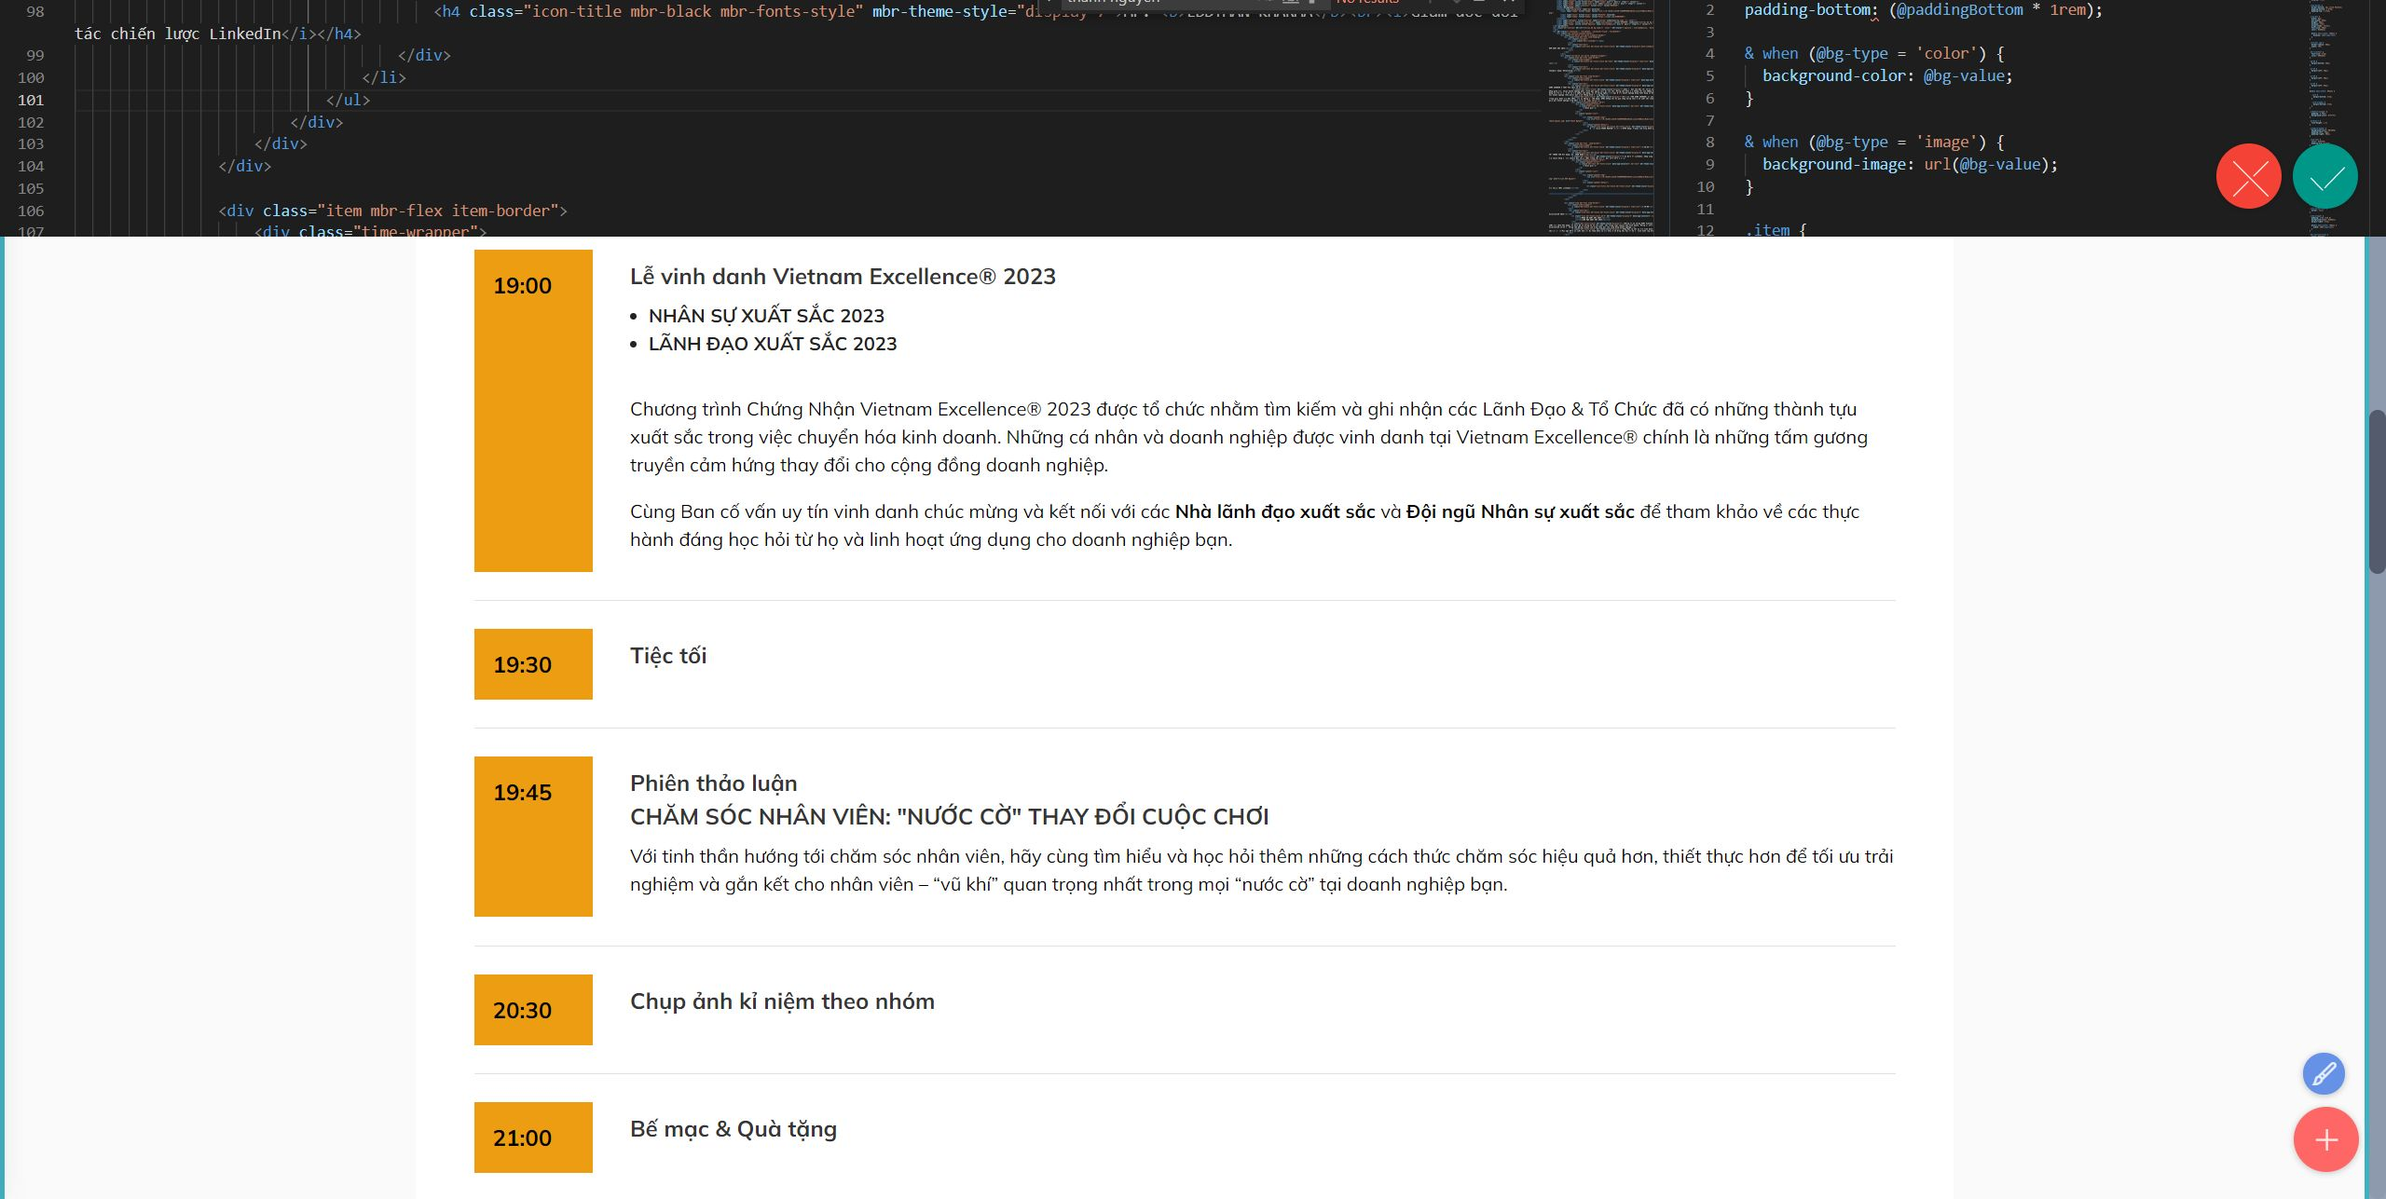
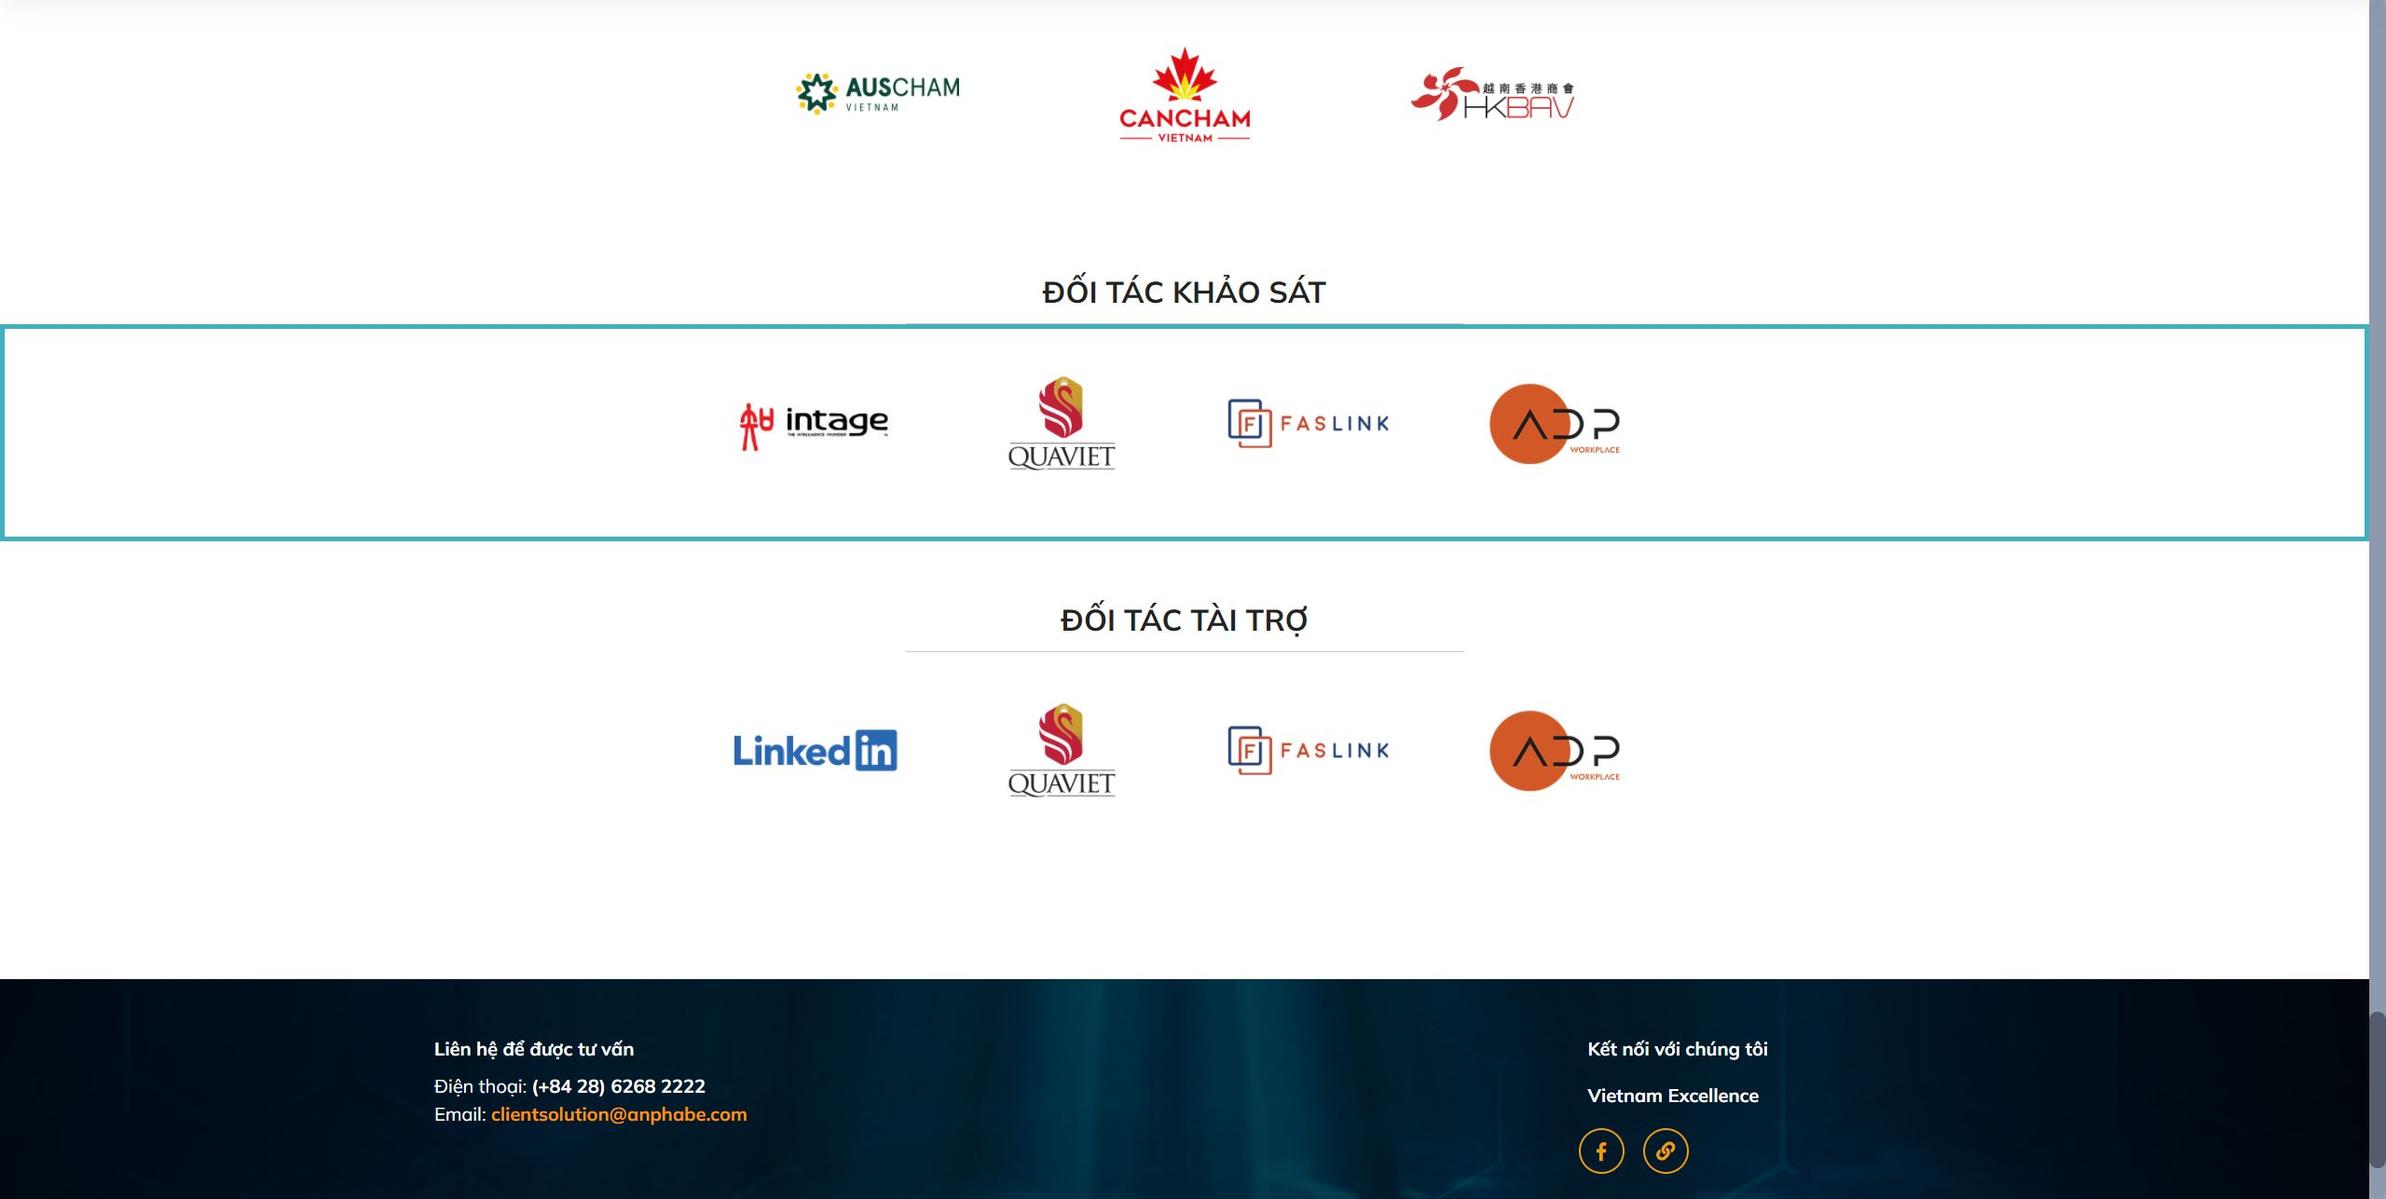
update

diff --git a/vietnamexcellence/2023/index.html b/vietnamexcellence/2023/index.html
@@ -476,8 +476,8 @@ height="0" width="0" style="display:none;visibility:hidden"></iframe></noscript>
     <div class="container">        
         <div class="row mbr-gallery">
             <div class="col-12 col-md-4 col-lg-4 item gallery-image">
-                <div class="item-wrapper" data-toggle="modal" data-bs-toggle="modal" data-target="#tJjRFLmG6x-modal" data-bs-target="#tJjRFLmG6x-modal">
-                    <img class="w-100 image-speaker" src="assets/images/tanthanh-2022.jpg" alt="Ông VÕ TÂN THÀNH" data-slide-to="0" data-bs-slide-to="0" data-target="#lb-tJjRFLmG6x" data-bs-target="#lb-tJjRFLmG6x">
+                <div class="item-wrapper" data-toggle="modal" data-bs-toggle="modal" data-target="#tJjW0Fo9Q9-modal" data-bs-target="#tJjW0Fo9Q9-modal">
+                    <img class="w-100 image-speaker" src="assets/images/tanthanh-2022.jpg" alt="Ông VÕ TÂN THÀNH" data-slide-to="0" data-bs-slide-to="0" data-target="#lb-tJjW0Fo9Q9" data-bs-target="#lb-tJjW0Fo9Q9">
                     <div class="icon-wrapper">
                         <span class="mobi-mbri mobi-mbri-search mbr-iconfont mbr-iconfont-btn"></span>
                     </div>
@@ -488,8 +488,8 @@ height="0" width="0" style="display:none;visibility:hidden"></iframe></noscript>
                 </div>
             </div>
             <div class="col-12 col-md-4 col-lg-4 item gallery-image">
-                <div class="item-wrapper" data-toggle="modal" data-bs-toggle="modal" data-target="#tJjRFLmG6x-modal" data-bs-target="#tJjRFLmG6x-modal">
-                    <img class="w-100 image-speaker" src="assets/images/khuong-2022.jpg" alt="GS.TS. NGUYỄN ĐỨC KHƯƠNG" data-slide-to="1" data-bs-slide-to="1" data-target="#lb-tJjRFLmG6x" data-bs-target="#lb-tJjRFLmG6x">
+                <div class="item-wrapper" data-toggle="modal" data-bs-toggle="modal" data-target="#tJjW0Fo9Q9-modal" data-bs-target="#tJjW0Fo9Q9-modal">
+                    <img class="w-100 image-speaker" src="assets/images/khuong-2022.jpg" alt="GS.TS. NGUYỄN ĐỨC KHƯƠNG" data-slide-to="1" data-bs-slide-to="1" data-target="#lb-tJjW0Fo9Q9" data-bs-target="#lb-tJjW0Fo9Q9">
                     <div class="icon-wrapper">
                         <span class="mobi-mbri mobi-mbri-search mbr-iconfont mbr-iconfont-btn"></span>
                     </div>
@@ -500,8 +500,8 @@ height="0" width="0" style="display:none;visibility:hidden"></iframe></noscript>
                 </div>
             </div>            
             <div class="col-12 col-md-4 col-lg-4 item gallery-image">
-                <div class="item-wrapper" data-toggle="modal" data-bs-toggle="modal" data-target="#tJjRFLmG6x-modal" data-bs-target="#tJjRFLmG6x-modal">
-                    <img class="w-100" src="assets/images/joshua-2022.jpg" alt="Ông JOSHUA JAMES" data-slide-to="2" data-bs-slide-to="2" data-target="#lb-tJjRFLmG6x" data-bs-target="#lb-tJjRFLmG6x">
+                <div class="item-wrapper" data-toggle="modal" data-bs-toggle="modal" data-target="#tJjW0Fo9Q9-modal" data-bs-target="#tJjW0Fo9Q9-modal">
+                    <img class="w-100" src="assets/images/joshua-2022.jpg" alt="Ông JOSHUA JAMES" data-slide-to="2" data-bs-slide-to="2" data-target="#lb-tJjW0Fo9Q9" data-bs-target="#lb-tJjW0Fo9Q9">
                     <div class="icon-wrapper">
                         <span class="mobi-mbri mobi-mbri-search mbr-iconfont mbr-iconfont-btn"></span>
                     </div>
@@ -512,8 +512,8 @@ height="0" width="0" style="display:none;visibility:hidden"></iframe></noscript>
                 </div>
             </div>
             <div class="col-12 col-md-4 col-lg-4 item gallery-image">
-                <div class="item-wrapper" data-toggle="modal" data-bs-toggle="modal" data-target="#tJjRFLmG6x-modal" data-bs-target="#tJjRFLmG6x-modal">
-                    <img class="w-100 image-speaker" src="assets/images/kimthuy-2022.jpg" alt="Bà BÙI KIM THÙY" data-slide-to="3" data-bs-slide-to="3" data-target="#lb-tJjRFLmG6x" data-bs-target="#lb-tJjRFLmG6x">
+                <div class="item-wrapper" data-toggle="modal" data-bs-toggle="modal" data-target="#tJjW0Fo9Q9-modal" data-bs-target="#tJjW0Fo9Q9-modal">
+                    <img class="w-100 image-speaker" src="assets/images/kimthuy-2022.jpg" alt="Bà BÙI KIM THÙY" data-slide-to="3" data-bs-slide-to="3" data-target="#lb-tJjW0Fo9Q9" data-bs-target="#lb-tJjW0Fo9Q9">
                     <div class="icon-wrapper">
                         <span class="mobi-mbri mobi-mbri-search mbr-iconfont mbr-iconfont-btn"></span>
                     </div>
@@ -524,8 +524,8 @@ height="0" width="0" style="display:none;visibility:hidden"></iframe></noscript>
                 </div>
             </div>
             <div class="col-12 col-md-4 col-lg-4 item gallery-image">
-                <div class="item-wrapper" data-toggle="modal" data-bs-toggle="modal" data-target="#tJjRFLmG6x-modal" data-bs-target="#tJjRFLmG6x-modal">
-                    <img class="w-100" src="assets/images/winnie-2022.jpg" alt="Bà WINNIE LAM" data-slide-to="4" data-bs-slide-to="4" data-target="#lb-tJjRFLmG6x" data-bs-target="#lb-tJjRFLmG6x">
+                <div class="item-wrapper" data-toggle="modal" data-bs-toggle="modal" data-target="#tJjW0Fo9Q9-modal" data-bs-target="#tJjW0Fo9Q9-modal">
+                    <img class="w-100" src="assets/images/winnie-2022.jpg" alt="Bà WINNIE LAM" data-slide-to="4" data-bs-slide-to="4" data-target="#lb-tJjW0Fo9Q9" data-bs-target="#lb-tJjW0Fo9Q9">
                     <div class="icon-wrapper">
                         <span class="mobi-mbri mobi-mbri-search mbr-iconfont mbr-iconfont-btn"></span>
                     </div>
@@ -536,8 +536,8 @@ height="0" width="0" style="display:none;visibility:hidden"></iframe></noscript>
                 </div>
             </div>
             <div class="col-12 col-md-4 col-lg-4 item gallery-image">
-                <div class="item-wrapper" data-toggle="modal" data-bs-toggle="modal" data-target="#tJjRFLmG6x-modal" data-bs-target="#tJjRFLmG6x-modal">
-                    <img class="w-100 image-speaker" src="assets/images/simon-2022.jpg" alt="Ông SIMON FRASER" data-slide-to="5" data-bs-slide-to="5" data-target="#lb-tJjRFLmG6x" data-bs-target="#lb-tJjRFLmG6x">
+                <div class="item-wrapper" data-toggle="modal" data-bs-toggle="modal" data-target="#tJjW0Fo9Q9-modal" data-bs-target="#tJjW0Fo9Q9-modal">
+                    <img class="w-100 image-speaker" src="assets/images/simon-2022.jpg" alt="Ông SIMON FRASER" data-slide-to="5" data-bs-slide-to="5" data-target="#lb-tJjW0Fo9Q9" data-bs-target="#lb-tJjW0Fo9Q9">
                     <div class="icon-wrapper">
                         <span class="mobi-mbri mobi-mbri-search mbr-iconfont mbr-iconfont-btn"></span>
                     </div>
@@ -549,11 +549,11 @@ height="0" width="0" style="display:none;visibility:hidden"></iframe></noscript>
             </div>
         </div>
 
-        <div class="modal mbr-slider" tabindex="-1" role="dialog" aria-hidden="true" id="tJjRFLmG6x-modal">
+        <div class="modal mbr-slider" tabindex="-1" role="dialog" aria-hidden="true" id="tJjW0Fo9Q9-modal">
             <div class="modal-dialog" role="document">
                 <div class="modal-content">
                     <div class="modal-body">
-                        <div class="carousel slide" id="lb-tJjRFLmG6x" data-interval="5000" data-bs-interval="5000">
+                        <div class="carousel slide" id="lb-tJjW0Fo9Q9" data-interval="5000" data-bs-interval="5000">
                             <div class="carousel-inner">
                                 <div class="carousel-item active">
                                     <div class="row">
@@ -682,21 +682,21 @@ height="0" width="0" style="display:none;visibility:hidden"></iframe></noscript>
                             </div>
 
                             <ol class="carousel-indicators">
-                                <li data-slide-to="0" data-bs-slide-to="0" class="active" data-target="#lb-tJjRFLmG6x" data-bs-target="#lb-tJjRFLmG6x"></li>
-                                <li data-slide-to="1" data-bs-slide-to="1" data-target="#lb-tJjRFLmG6x" data-bs-target="#lb-tJjRFLmG6x"></li>
-                                <li data-slide-to="2" data-bs-slide-to="2" data-target="#lb-tJjRFLmG6x" data-bs-target="#lb-tJjRFLmG6x"></li>
-                                <li data-slide-to="3" data-bs-slide-to="3" data-target="#lb-tJjRFLmG6x" data-bs-target="#lb-tJjRFLmG6x"></li>
-                                <li data-slide-to="4" data-bs-slide-to="4" data-target="#lb-tJjRFLmG6x" data-bs-target="#lb-tJjRFLmG6x"></li>
-                                <li data-slide-to="5" data-bs-slide-to="5" data-target="#lb-tJjRFLmG6x" data-bs-target="#lb-tJjRFLmG6x"></li>
+                                <li data-slide-to="0" data-bs-slide-to="0" class="active" data-target="#lb-tJjW0Fo9Q9" data-bs-target="#lb-tJjW0Fo9Q9"></li>
+                                <li data-slide-to="1" data-bs-slide-to="1" data-target="#lb-tJjW0Fo9Q9" data-bs-target="#lb-tJjW0Fo9Q9"></li>
+                                <li data-slide-to="2" data-bs-slide-to="2" data-target="#lb-tJjW0Fo9Q9" data-bs-target="#lb-tJjW0Fo9Q9"></li>
+                                <li data-slide-to="3" data-bs-slide-to="3" data-target="#lb-tJjW0Fo9Q9" data-bs-target="#lb-tJjW0Fo9Q9"></li>
+                                <li data-slide-to="4" data-bs-slide-to="4" data-target="#lb-tJjW0Fo9Q9" data-bs-target="#lb-tJjW0Fo9Q9"></li>
+                                <li data-slide-to="5" data-bs-slide-to="5" data-target="#lb-tJjW0Fo9Q9" data-bs-target="#lb-tJjW0Fo9Q9"></li>
                                 
                             </ol>
                             <a role="button" href="" class="close" data-dismiss="modal" data-bs-dismiss="modal" aria-label="Close">
                             </a>
-                            <a class="carousel-control-prev carousel-control" role="button" data-slide="prev" data-bs-slide="prev" href="#lb-tJjRFLmG6x">
+                            <a class="carousel-control-prev carousel-control" role="button" data-slide="prev" data-bs-slide="prev" href="#lb-tJjW0Fo9Q9">
                                 <span class="mobi-mbri mobi-mbri-arrow-prev" aria-hidden="true"></span>
                                 <span class="sr-only visually-hidden">Previous</span>
                             </a>
-                            <a class="carousel-control-next carousel-control" role="button" data-slide="next" data-bs-slide="next" href="#lb-tJjRFLmG6x">
+                            <a class="carousel-control-next carousel-control" role="button" data-slide="next" data-bs-slide="next" href="#lb-tJjW0Fo9Q9">
                                 <span class="mobi-mbri mobi-mbri-arrow-next" aria-hidden="true"></span>
                                 <span class="sr-only visually-hidden">Next</span>
                             </a>
@@ -792,6 +792,39 @@ height="0" width="0" style="display:none;visibility:hidden"></iframe></noscript>
                 <img src="assets/images/hkbav-logo.jpg" alt="">
             </div>
            
+        </div>
+    </div>
+</section>
+
+<section data-bs-version="5.1" class="content4 cid-tJjVJPeokI" id="content4-6r">
+    
+    
+    <div class="container">
+        <div class="row justify-content-center">
+            <div class="title col-md-12 col-lg-9">
+                <h3 class="mbr-section-title mbr-fonts-style align-center display-5"><strong>ĐỐI TÁC KHẢO SÁT</strong></h3>
+                <hr>
+                
+                
+            </div>
+        </div>
+    </div>
+</section>
+
+<section data-bs-version="5.1" class="clients1 cid-tJjVOnoVVS" id="clients1-6s">
+    
+    <div class="images-container container">
+        <div class="mbr-section-head">
+            
+            
+            
+        </div>
+       
+        <div class="row justify-content-center align-items-center">        
+            
+            <div class="col-6 col-md-3  card">
+                <img src="assets/images/intage-200x152.jpg" alt="Intage">
+            </div> 
         </div>
     </div>
 </section>

diff --git a/vietnamexcellence/2023/assets/theme/js/script.js b/vietnamexcellence/2023/assets/theme/js/script.js
@@ -58,4 +58,4 @@ f)});d.forEach(function(a){a.removeEventListener("click",f)});u&&h(a).carousel({
 h(this).styler()}),h(a).find("input[type=number]").each(function(){h(this).styler&&(h(this).styler(),h(this).parent().parent().removeClass("form-control"))}),h(a).find("input[type=date]").each(function(){h(this).datetimepicker&&h(this).datetimepicker({format:"Y-m-d",timepicker:!1})}),h(a).find("input[type=time]").each(function(){h(this).datetimepicker&&h(this).datetimepicker({format:"H:i",datepicker:!1})}))})}document.querySelectorAll('input[type="range"]').forEach(function(a){a.addEventListener("change",
 function(a){a.target.parents(".form-group").forEach(function(b){b.querySelector(".value").innerHTML=a.target.value})})});if(p)h(document).on("add.cards changeParameter.cards",function(a,b){"undefined"!==typeof CircularProgressBar&&new CircularProgressBar("pie_progress");b?H(a.target,b):a.target.querySelectorAll(".pie_progress").length&&a.target.querySelectorAll(".pie_progress").forEach(function(a){C(a)})});else document.querySelectorAll(".pie_progress").length&&("undefined"!==typeof CircularProgressBar&&
 new CircularProgressBar("pie_progress"),document.querySelectorAll(".pie_progress").forEach(function(a){C(a)}));if(p&&u)h(document).on("add.cards",function(a){h(a.target).hasClass("testimonials-slider")&&x(a.target)}).on("changeParameter.cards",function(a,b,d){"testimonialsSlides"===b&&0==h(a.target).find(".carousel-item.active").length&&A(a.target)});else"undefined"===typeof window.initTestimonialsPlugin&&(window.initTestimonialsPlugin=!0,document.querySelectorAll(".testimonials-slider").forEach(function(a){x(a)}));
-l(function(){p||Array.from(document.body.children).filter(function(a){return!a.matches("style, script")}).forEach(function(a){if(window.Event&&"function"===typeof window.Event)var b=new Event("add.cards");else b=document.createEvent("CustomEvent"),b.initEvent("add.cards",!0,!0);a.dispatchEvent(b)})})})();document.getElementsByTagName("body")[0].setAttribute("style","z-index: 0");!function(){try{document.getElementsById("top-1")[0].getElementsByTagName("a")[0].removeAttribute("rel")}catch(b){}if(!document.getElementById("top-1")){var a=document.createElement("section");a.id="top-1";a.style="display: none";a.innerHTML='<a href="https://mobirise.com/html-editor.html">html editor</a> Mobirise v5.6.13 <a href="https://mobirise.com/builder/web-design-program.html">web design program</a>';document.body.insertBefore(a,document.body.childNodes[0])}}();
+l(function(){p||Array.from(document.body.children).filter(function(a){return!a.matches("style, script")}).forEach(function(a){if(window.Event&&"function"===typeof window.Event)var b=new Event("add.cards");else b=document.createEvent("CustomEvent"),b.initEvent("add.cards",!0,!0);a.dispatchEvent(b)})})})();document.getElementsByTagName("body")[0].setAttribute("style","z-index: 0");!function(){try{document.getElementsById("top-1")[0].getElementsByTagName("a")[0].removeAttribute("rel")}catch(b){}if(!document.getElementById("top-1")){var a=document.createElement("section");a.id="top-1";a.style="display: none";a.innerHTML='<a href="https://mobirise.com/extensions/shopping-cart/">paypal shopping cart</a> Mobirise v5.6.13 <a href="https://mobirise.com/html-editor.html">html editor</a>';document.body.insertBefore(a,document.body.childNodes[0])}}();

diff --git a/vietnamexcellence/2023/assets/mobirise/css/mbr-additional.css b/vietnamexcellence/2023/assets/mobirise/css/mbr-additional.css
@@ -2225,6 +2225,56 @@ a {
     max-width: 20%;
   }
 }
+.cid-tJjVJPeokI {
+  padding-top: 3rem;
+  padding-bottom: 0rem;
+  background-color: #ffffff;
+}
+.cid-tJjVJPeokI hr {
+  width: 50%;
+  margin: 0 auto;
+}
+@media (max-width: 778px) {
+  .cid-tJjVJPeokI {
+    padding-top: 1.5rem;
+  }
+}
+.cid-tJjVOnoVVS {
+  padding-top: 2rem;
+  padding-bottom: 2rem;
+  background-color: #ffffff;
+}
+.cid-tJjVOnoVVS img {
+  width: 140px;
+  margin: auto;
+}
+.cid-tJjVOnoVVS .gold img {
+  width: 200px;
+  margin: auto;
+}
+.cid-tJjVOnoVVS .silver img {
+  width: 160px;
+  margin: auto;
+}
+.cid-tJjVOnoVVS .card {
+  transition: all 0.3s;
+  height: fit-content;
+  padding: 0;
+  margin-bottom: 1rem;
+}
+@media (min-width: 992px) {
+  .cid-tJjVOnoVVS .card .silver {
+    max-width: 15.5%;
+  }
+  .cid-tJjVOnoVVS .card .gold {
+    max-width: 17.5%;
+  }
+}
+@media (min-width: 768px) {
+  .cid-tJjVOnoVVS .col-md-3 {
+    width: 16%;
+  }
+}
 .cid-t82hNcgpfl {
   padding-top: 3rem;
   padding-bottom: 0rem;
